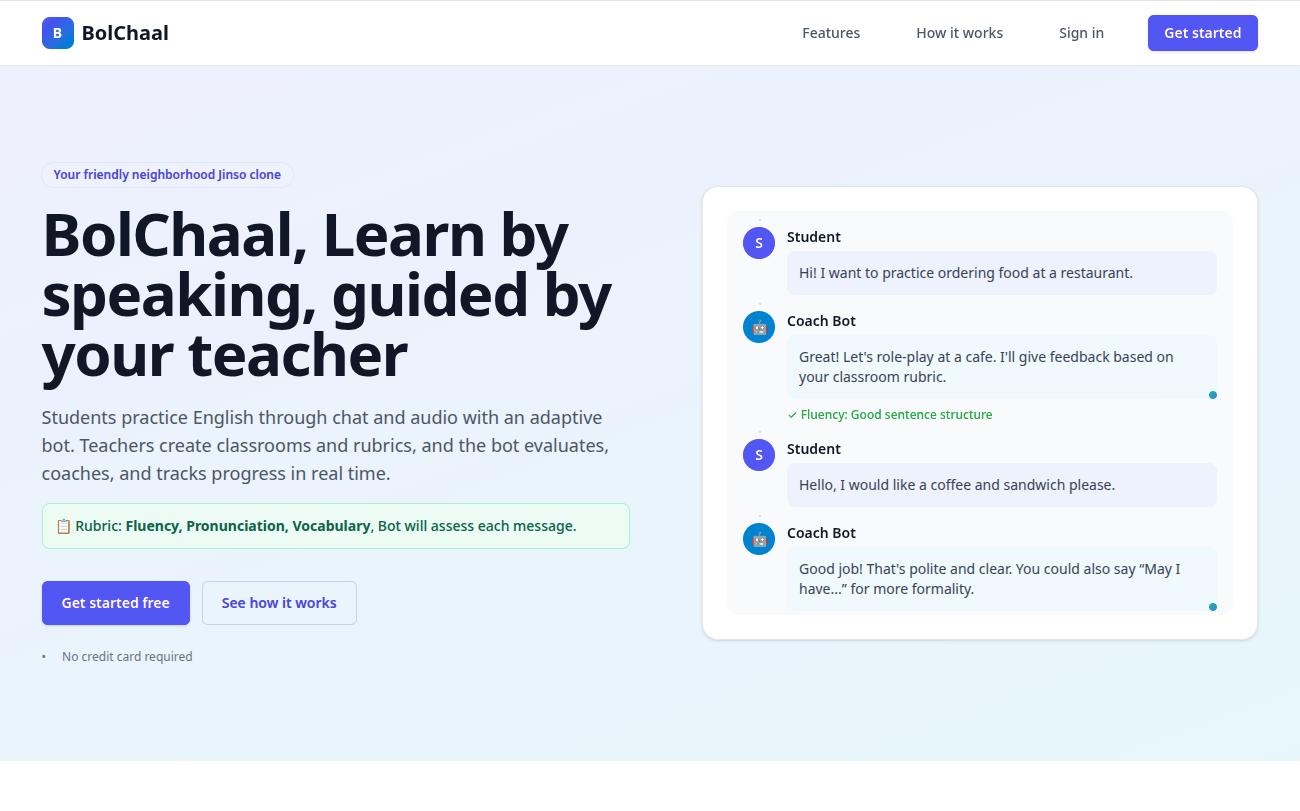
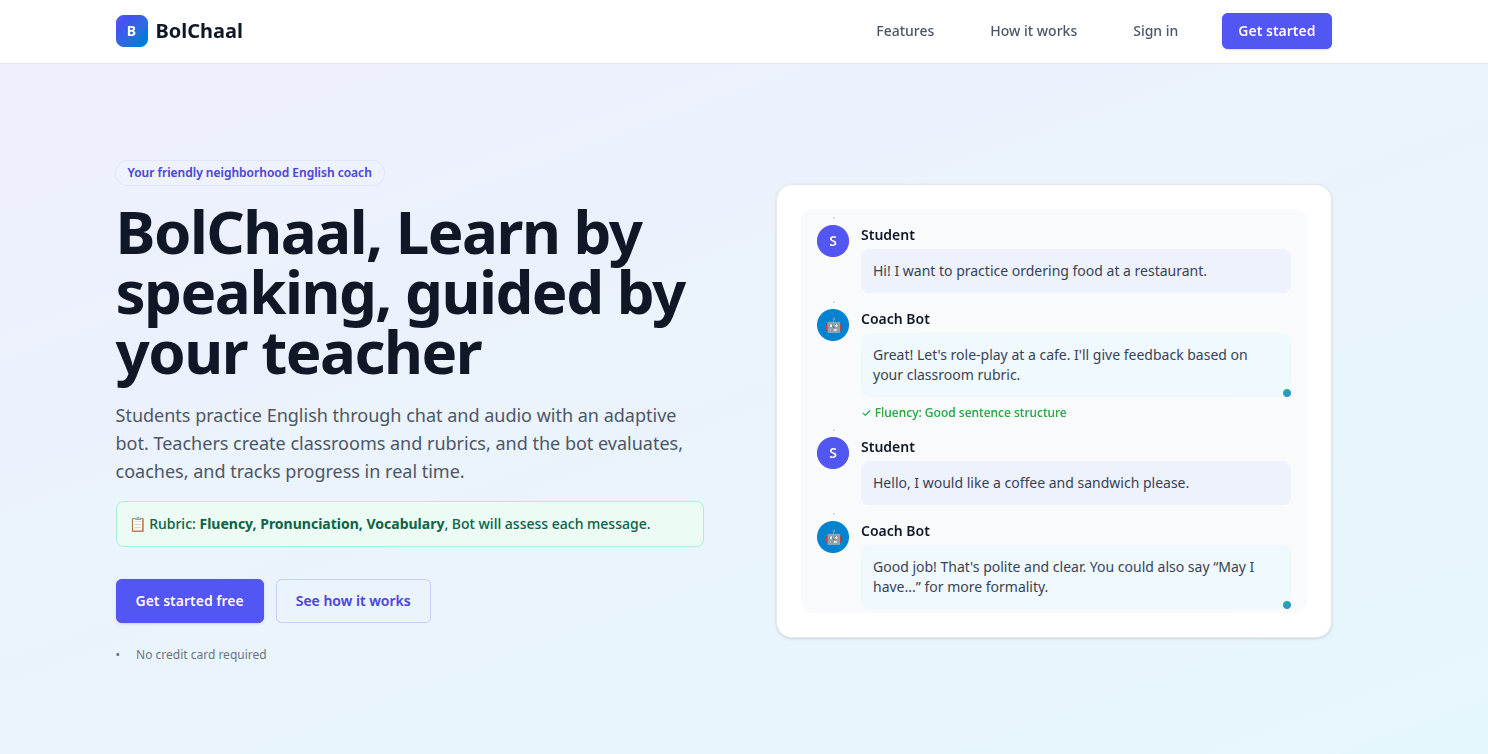
fix: name

diff --git a/apps/web/app/page.tsx b/apps/web/app/page.tsx
@@ -29,7 +29,7 @@ export default function Page() {
         <div className="relative mx-auto max-w-7xl px-6 py-20 sm:py-24 lg:px-8">
           <div className="grid grid-cols-1 lg:grid-cols-2 gap-10 items-center">
             <div>
-              <p className="inline-block rounded-full bg-indigo-50 px-3 py-1 text-xs font-semibold text-indigo-700 ring-1 ring-indigo-100">Your friendly neighborhood Jinso clone</p>
+              <p className="inline-block rounded-full bg-indigo-50 px-3 py-1 text-xs font-semibold text-indigo-700 ring-1 ring-indigo-100">Your friendly neighborhood English coach</p>
               <h1 className="mt-4 text-4xl font-bold tracking-tight sm:text-5xl lg:text-6xl">
                 BolChaal, Learn by speaking, guided by your teacher
               </h1>
